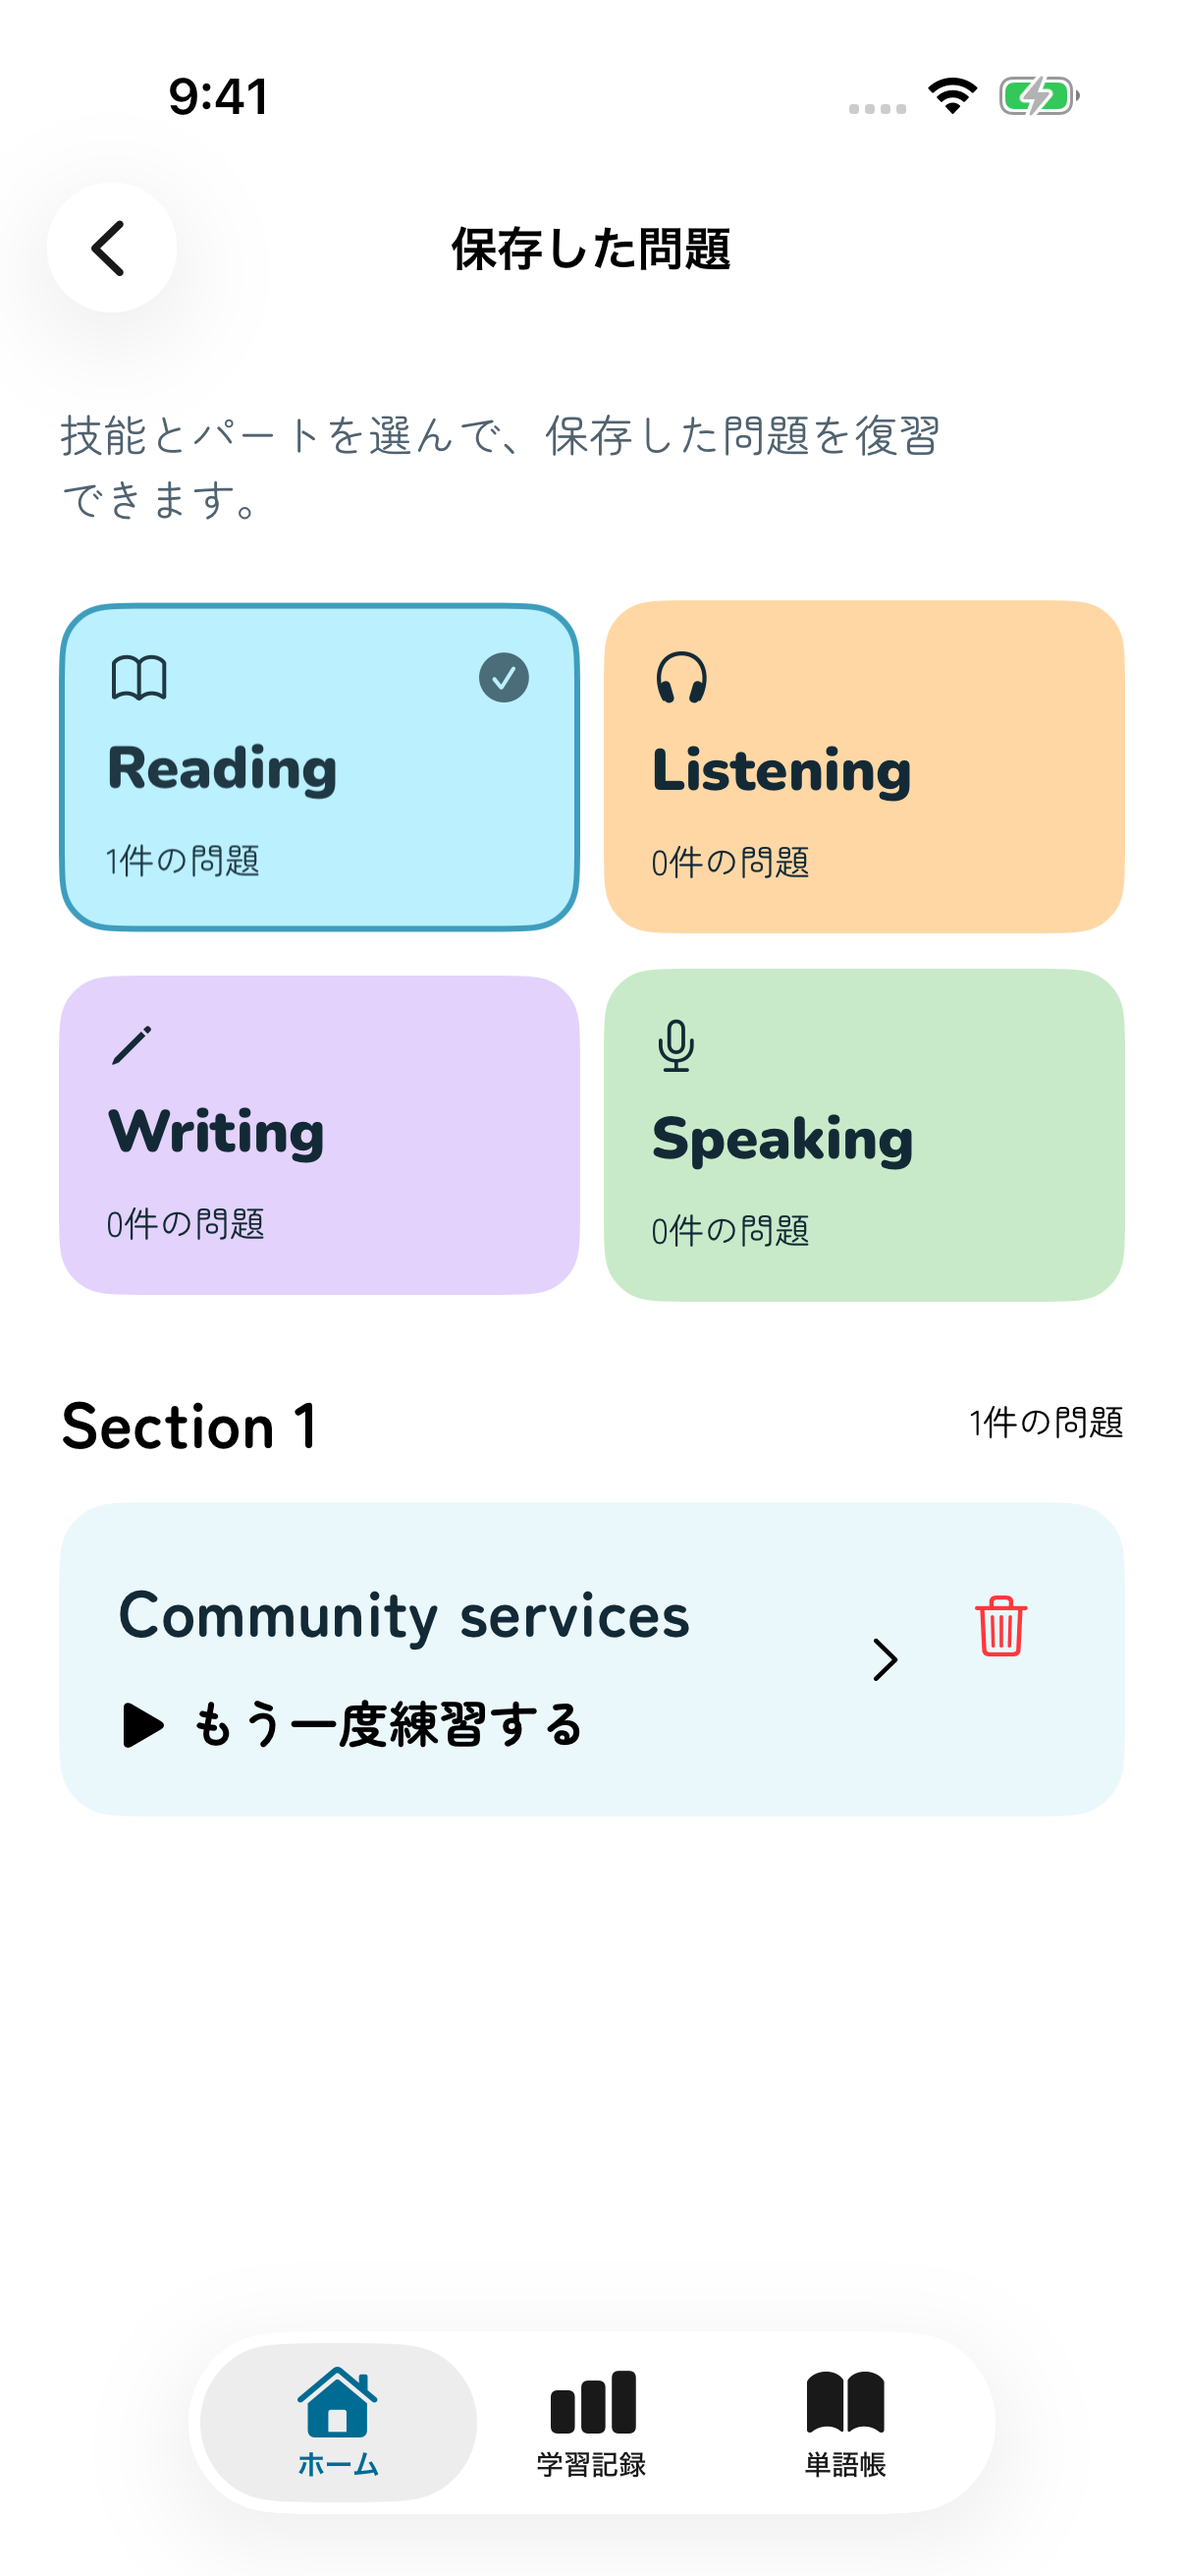
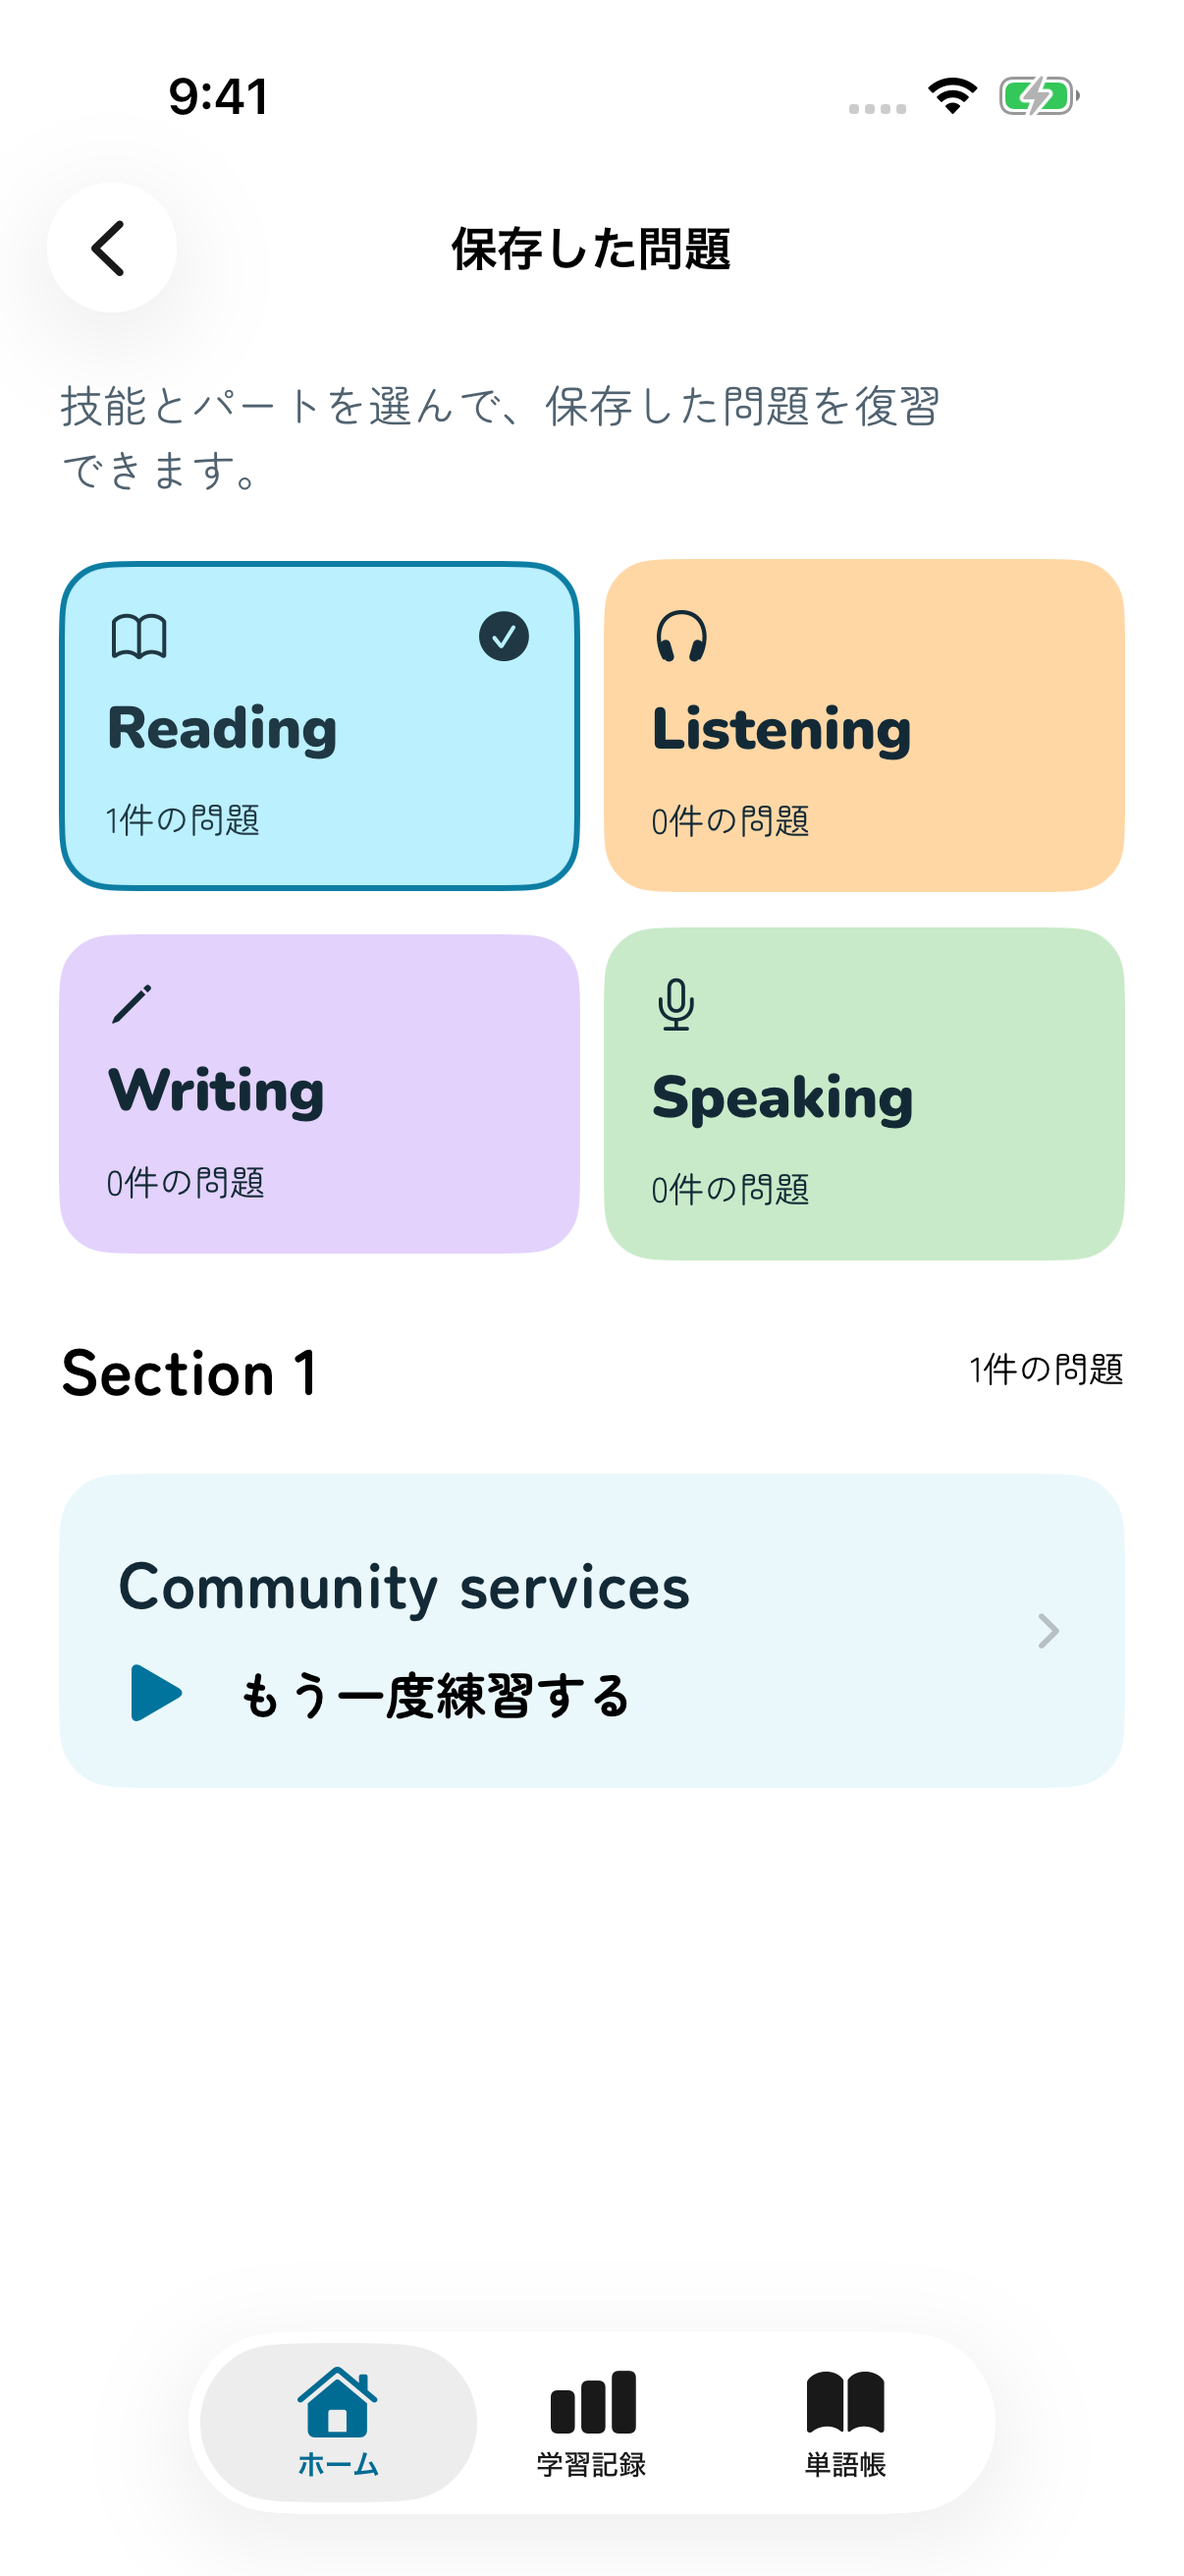
Remove inline delete buttons from saved item cards

diff --git a/UITests/PocketIELTSUITests.swift b/UITests/PocketIELTSUITests.swift
@@ -72,13 +72,14 @@ final class PocketIELTSUITests: XCTestCase {
         XCTAssertTrue((app.descendants(matching: .any).matching(identifier: "tutor.input").firstMatch.value as? String ?? "").contains("使い方"))
         app.buttons["完了"].tap()
         capture("iphone-vocabulary-actions")
-        app.cells.containing(.button, identifier: "vocabulary.delete").firstMatch.swipeLeft()
+        app.cells.containing(.button, identifier: "vocabulary.askAI").firstMatch.swipeLeft()
         capture("iphone-vocabulary-swipe")
         app.buttons["削除"].firstMatch.tap()
         XCTAssertTrue(app.alerts["この単語を削除しますか？"].waitForExistence(timeout: 5))
         app.alerts.buttons["キャンセル"].tap()
         XCTAssertTrue(app.buttons["vocabulary.askAI"].exists)
-        app.buttons["vocabulary.delete"].firstMatch.tap()
+        app.cells.containing(.button, identifier: "vocabulary.askAI").firstMatch.swipeLeft()
+        app.buttons["削除"].firstMatch.tap()
         XCTAssertTrue(app.alerts["この単語を削除しますか？"].waitForExistence(timeout: 5))
         app.alerts.buttons["削除"].tap()
         XCTAssertTrue(app.staticTexts["単語帳は空です"].waitForExistence(timeout: 5))
@@ -264,16 +265,16 @@ final class PocketIELTSUITests: XCTestCase {
         app.buttons["saved.skill.Reading"].tap()
         XCTAssertTrue(app.staticTexts["Section 1"].exists)
         capture(UIDevice.current.userInterfaceIdiom == .pad ? "ipad-saved-questions" : "iphone-saved-questions")
-        let delete = app.buttons["saved.delete"].firstMatch
-        for _ in 0..<8 where !delete.isHittable { app.swipeUp() }
-        app.cells.containing(.button, identifier: "saved.delete").firstMatch.swipeLeft()
+        for _ in 0..<8 where !saved.isHittable { app.swipeUp() }
+        app.cells.containing(.staticText, identifier: "Community services").firstMatch.swipeLeft()
         capture("iphone-saved-swipe")
         app.buttons["削除"].firstMatch.tap()
         let confirmation = app.alerts["保存した問題を削除しますか？"]
         XCTAssertTrue(confirmation.waitForExistence(timeout: 5))
         confirmation.buttons["キャンセル"].tap()
         XCTAssertTrue(saved.exists)
-        delete.tap()
+        app.cells.containing(.staticText, identifier: "Community services").firstMatch.swipeLeft()
+        app.buttons["削除"].firstMatch.tap()
         confirmation.buttons["削除"].tap()
         XCTAssertTrue(app.staticTexts["保存した問題はありません"].waitForExistence(timeout: 5))
         app.terminate(); app.launch()

diff --git a/Sources/Features/Home/HomeScreen.swift b/Sources/Features/Home/HomeScreen.swift
@@ -265,9 +265,6 @@ struct VocabularyScreen: View {
                         HStack(alignment: .top) {
                             Text(entry.expression).font(StudyTypography.heading).textSelection(.enabled)
                             Spacer()
-                            Button(String(localized: "単語を削除"), systemImage: "trash") { deleting = entry }
-                                .labelStyle(.iconOnly).frame(width: 44, height: 44).foregroundStyle(StudyColors.error).buttonStyle(.plain)
-                                .accessibilityIdentifier("vocabulary.delete")
                         }
                         if !entry.sourceText.isEmpty { Text(entry.contextExcerpt).font(StudyTypography.subheadline).textSelection(.enabled) }
                         Button(String(localized: "AIに質問"), systemImage: "bubble.left.and.bubble.right") {
@@ -449,11 +446,6 @@ struct SavedPapersScreen: View {
                                         Spacer(minLength: 0)
                                     }.frame(maxWidth: .infinity, alignment: .leading).contentShape(Rectangle())
                                 }.buttonStyle(.plain)
-                                Button(String(localized: "保存した問題を削除"), systemImage: "trash") { deleting = paper }
-                                    .labelStyle(.iconOnly).font(.system(size: 19))
-                                    .frame(width: 44, height: 44).contentShape(Rectangle())
-                                    .foregroundStyle(StudyColors.error).buttonStyle(.plain)
-                                    .accessibilityIdentifier("saved.delete")
                             }.padding(20).frame(maxWidth: .infinity, alignment: .leading)
                                 .background(StudyColors.mockCard, in: RoundedRectangle(cornerRadius: 20))
                                 .swipeActions(edge: .trailing, allowsFullSwipe: false) {

diff --git a/README.md b/README.md
@@ -9,7 +9,7 @@ Pocket IELTS is a native SwiftUI app for IELTS **General Training** practice on 
 <p align="center">
   <img src="Documentation/Screenshots/iphone-home.png" width="250" alt="iPhone home with four color-coded IELTS skills" />
   <img src="Documentation/Screenshots/iphone-selection.png" width="250" alt="Tap a word in a reading passage to save it with its original context" />
-  <img src="Documentation/Screenshots/iphone-vocabulary.png" width="250" alt="Vocabulary entry with AI questions, deletion and a link to the original exercise" />
+  <img src="Documentation/Screenshots/iphone-vocabulary.png" width="250" alt="Vocabulary entry with AI questions and a link to the original exercise" />
 </p>
 
 ## A complete study loop
@@ -170,7 +170,7 @@ If using `xcodebuild -clonedSourcePackagesDirPath`, also pass `LICENSE_PLIST_PAC
 
 <img src="Documentation/Screenshots/iphone-saved-questions.png" width="280" alt="Saved questions grouped by skill and section" />
 
-Saved questions are available from Home and the skill selection screens, grouped by Reading, Listening, Writing and Speaking, then by Section, Part or Task. Each skill shows its saved count. Use the trash button on a saved question to remove it after confirmation. Learning history and saved vocabulary are retained; deletion records sync through iCloud, and you can explicitly save the question again later.
+Saved questions are available from Home and the skill selection screens, grouped by Reading, Listening, Writing and Speaking, then by Section, Part or Task. Each skill shows its saved count. Swipe a saved question to reveal Delete, then confirm to remove it. Learning history and saved vocabulary are retained; deletion records sync through iCloud, and you can explicitly save the question again later.
 
 Listening audio uses separate, consistent voices for dialogue speakers. Speaker labels are excluded from spoken input. Generation progress shows the percentage of completed audio segments and reaches 100% before playback. Completed segments are cached on the device. Audio generation requires your own OpenAI API key and incurs API charges; ChatGPT sign-in remains separate.
 
